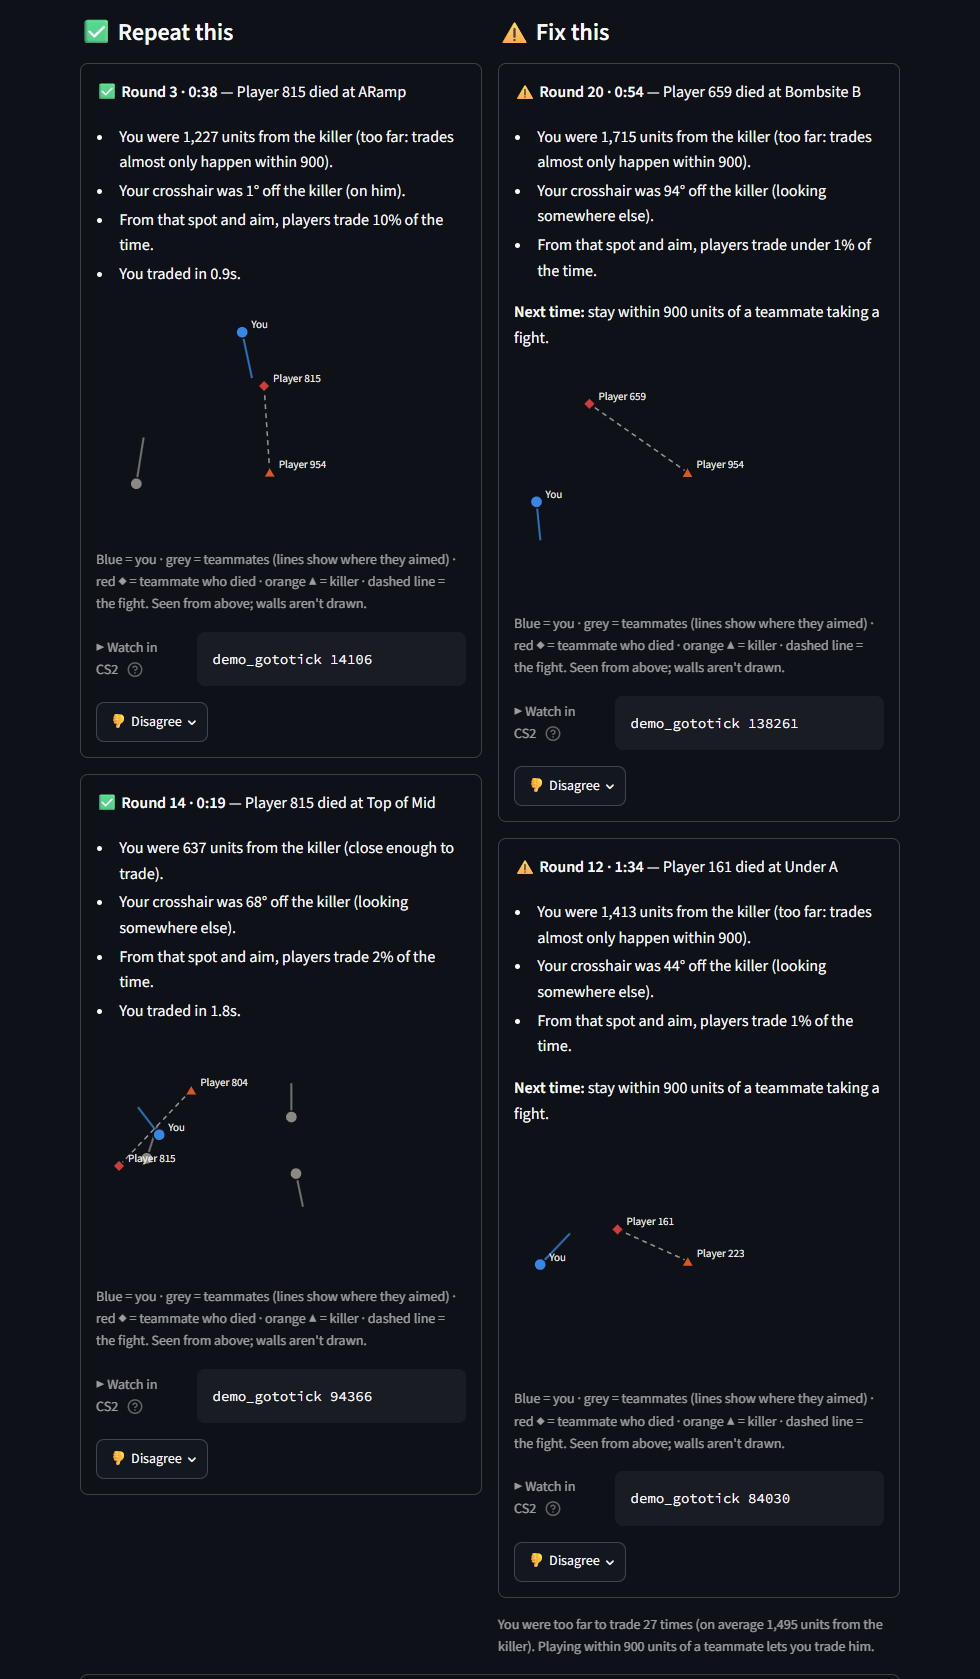
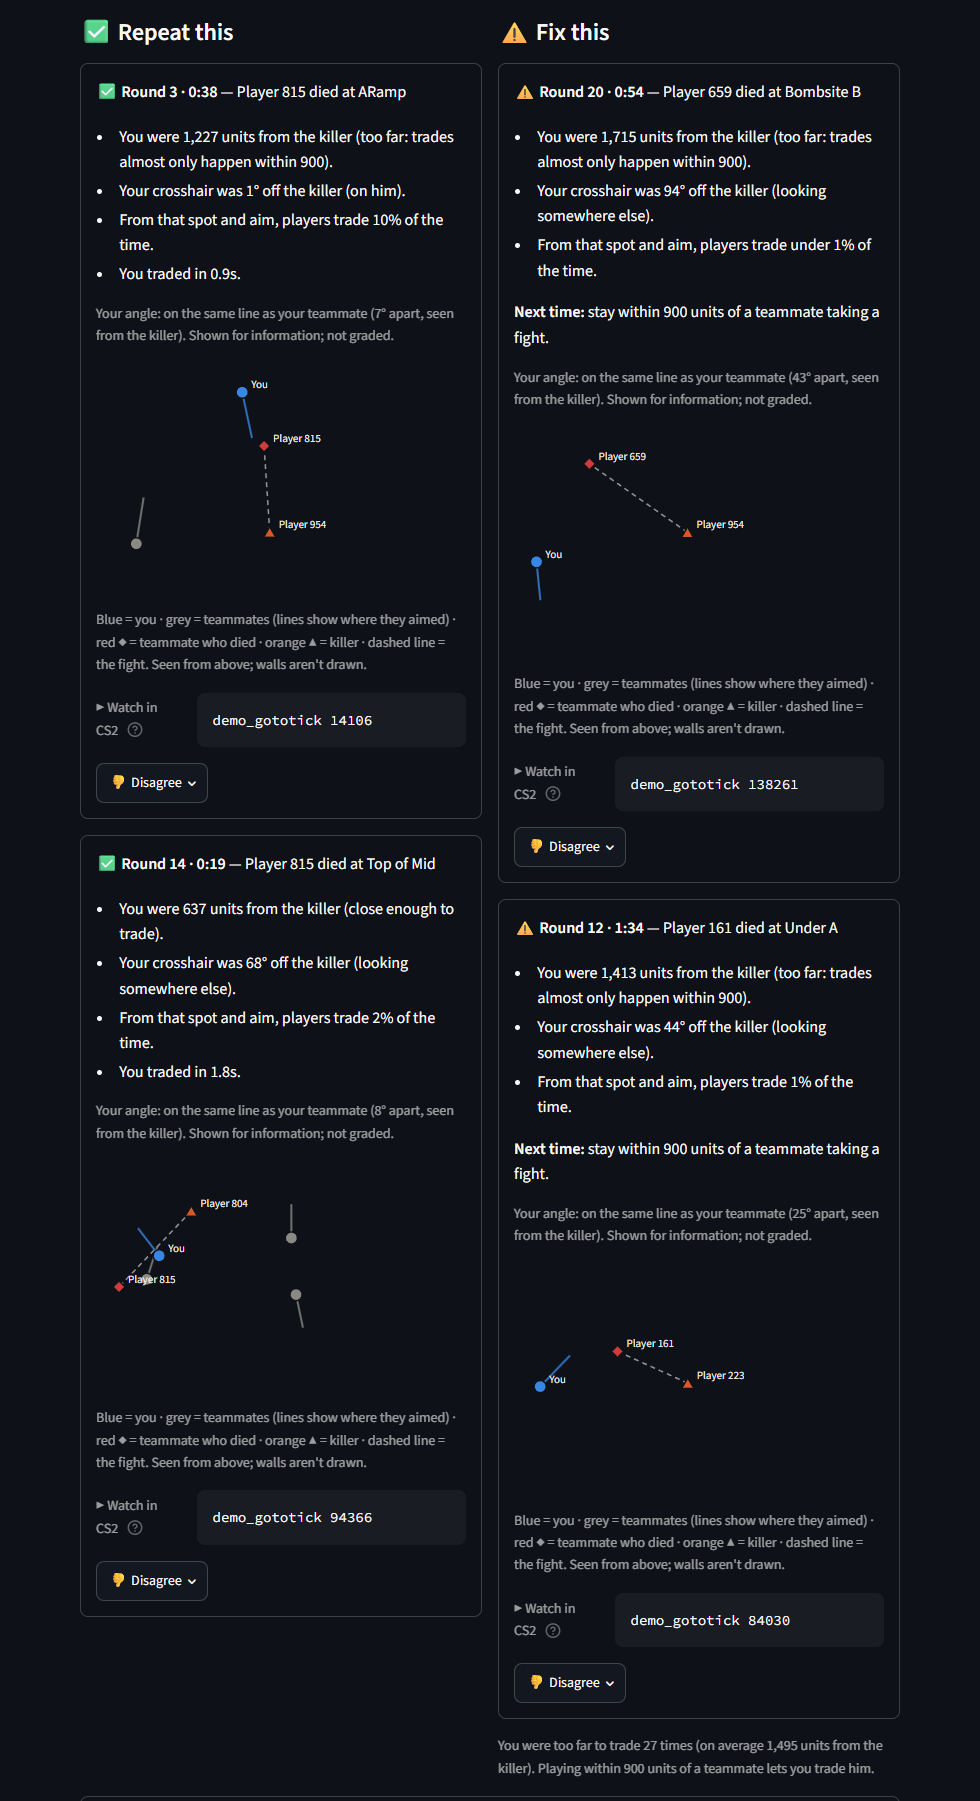
Show crossfires as information, with the reason they aren't graded
The Spacing tab explains crossfires and the pool finding (22% vs 26%
of deaths traded quickly, crossfire vs same line), and each coverage
card notes whether you had a crossfire or were on the same line. The
decision and when to revisit it are recorded in decisions.md. README
and screenshots updated.

diff --git a/app.py b/app.py
@@ -739,7 +739,12 @@ def cover_card(row: pd.Series, report: Report) -> None:
             st.markdown(f"**Next time:** stay within {fights.TRADE_RANGE:,} units of a teammate taking a fight.")
         death = report.all_deaths[(report.all_deaths["tick"] == row["tick"]) & (report.all_deaths["victim"] == row["victim"])]
         if len(death):
-            render_moment_map(death.iloc[0], report)
+            d = death.iloc[0]
+            if pd.notna(d["victim_x"]) and pd.notna(d["killer_x"]) and pd.notna(row.get("mate_x")):
+                angle = spacing.separation((d["victim_x"], d["victim_y"]), (row["mate_x"], row["mate_y"]), (d["killer_x"], d["killer_y"]))
+                kind = "a crossfire on the killer" if angle >= spacing.CROSSFIRE_ANGLE else "on the same line as your teammate"
+                st.caption(f"Your angle: {kind} ({angle:.0f}° apart, seen from the killer). Shown for information; not graded.")
+            render_moment_map(d, report)
         watch_hint(row["tick"])
         disagree_button(report, "coverage", row["verdict"], row["round"], row["tick"])
 
@@ -961,6 +966,18 @@ def render_spacing(report: Report, mode: str) -> None:
     st.altair_chart(spacing_chart(mine, rates, mode), width="stretch")
     st.markdown("**Next time:** when you take a fight, have a teammate a few steps behind you (under 300 units), and when a "
                 "teammate takes one, be that player. Trades happen in the first two seconds or not at all.")
+    with st.expander("What about crossfires?"):
+        set_up = int(mine["widest_angle"].notna().sum())
+        crossed = int(mine["crossfire"].sum())
+        st.markdown(f"A crossfire means a teammate watches your fight from a different angle: {spacing.CROSSFIRE_ANGLE}° or more "
+                    f"from you, seen from the killer. When you died with a teammate in range ({set_up} times), they had a "
+                    f"crossfire on your killer {crossed} times.")
+        if finding:
+            cross, line, n = finding
+            st.markdown(f"Across the pool so far ({n:,} deaths), crossfires **didn't** lead to more quick trades: {cross:.0%} of "
+                        f"deaths were traded within 2 seconds with a crossfire set up, {line:.0%} on the same line. A crossfire's "
+                        "real value is probably stopping the kill in the first place, since the killer can't watch both angles. "
+                        "Halftime only sees deaths, so it can't measure that yet, and doesn't grade crossfires until it can.")
 
 
 def render_utility(report: Report, mode: str) -> None:

diff --git a/README.md b/README.md
@@ -53,7 +53,7 @@ Real output from real matches. Player names are replaced with stand-ins.
 - **Match report.** Pick one of your CS2 replays or upload a demo (`.dem`, or FACEIT's compressed `.dem.gz` / `.dem.zst`), then choose the player to review. Uploads are checked first (wrong, CS:GO, renamed or cut-off files get a clear message), analysing shows each step as it happens, a demo that stops before anyone won is flagged so a partial report isn't mistaken for the whole match, and read errors are explained in plain words. Press **This is me** once and Halftime opens on you from then on. A **round timeline** marks every round you won or lost, with icons for avoidable deaths, wrong buy calls and won clutches; click a round to see its full story. The details sit in three tabs: **Fights** (deaths, clutches & openings), **Teamplay** (coverage, utility) and **Economy** (buy calls, round by round).
   - **Your deaths:** each one labelled *traded*, *avoidable* (re-peeked after a kill, pushed with nobody close enough to trade, died with gear in a lost round), *teammates didn't trade* or *lost a duel*, with the reasons, the cost to your team's round win chance, a moment map, and a one-click-copy console command to jump to it in the demo.
   - **Coverage grade (A–F):** how often you were close enough to trade a teammate and aiming at his killer, graded against every player in the pool, with moments to repeat and to fix.
-  - **Spacing:** how far your nearest teammate was each time you died, and how often deaths at that distance get traded across the pool (about 30% within 300 units, 2% alone), with the trades you'd likely have gotten by playing closer.
+  - **Spacing:** how far your nearest teammate was each time you died, and how often deaths at that distance get traded across the pool (about 30% within 300 units, 2% alone), with the trades you'd likely have gotten by playing closer. Crossfires are shown but not graded: in the pool so far they didn't lead to more quick trades than playing the same line (see `decisions.md`).
   - **Utility:** grenades thrown, enemies flashed per flash, teammates flashed, grenade damage, and deaths with unused grenades, against the match average.
   - **Clutches & openings:** a fight-or-save verdict for every 1vX, and every opening duel you were in.
   - **Buy calls:** every force-or-save decision graded "Good call", "Close call", "Should have forced" or "Should have saved", with the rounds each wrong call cost.

diff --git a/decisions.md b/decisions.md
@@ -88,3 +88,8 @@ Revisit if: The pool grows past ~100 matches (refit, check calibration by rank),
 Context: Team buy calls are small (about 0.5 rounds a match for a whole team) and solo-queue players can't act on them. Deaths cost far more, and most players don't trade or hold angles that cover teammates.
 Choice + why: A death traded within 2 seconds counts as fine, including entries and angle clears. Coverage is graded from positions at each teammate death: distance to the killer and how far your aim was from him, turned into a trade chance by a model fitted on the pool. No map geometry (walls) yet, so it uses straight-line distance; the fitted chances already absorb the typical effect of walls.
 Revisit if: Players report verdicts that are wrong because of walls (e.g. close but behind a wall), or a licensed source of map geometry becomes available.
+
+## 2026-11-07 — Coach spacing; show crossfires without grading them
+Context: The user asked for a crossfire and spacing coach. Measured on 13 matches (2-second trades): a death with a teammate within 150 units was traded 38% of the time, 150-300 units 26%, 600-900 units 8%, past 1,600 almost never. Deaths with a crossfire set up (a teammate in range at 45 degrees or more from the victim, seen from the killer) were traded 22% of the time, against 26% on the same line (667 deaths); same result at equal distances.
+Choice + why: Grade spacing (nearest teammate when you die; habit, checklist tip, weekly focus) because the data shows a strong effect. Show crossfires as information only, with the finding explained, because teaching "crossfire more" isn't supported by this data. A crossfire's value is likely preventing the kill, which death-only data can't measure.
+Revisit if: The pool grows past ~100 matches, or kills that didn't happen can be measured (e.g. duels won by the player with a crossfire behind them), so crossfire value can be tested directly.
